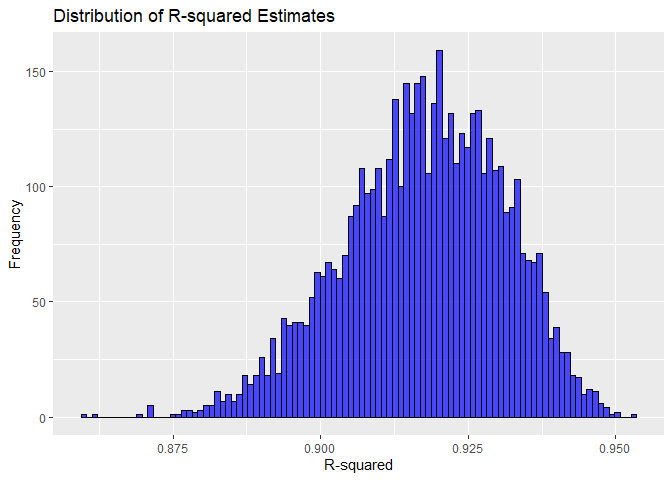
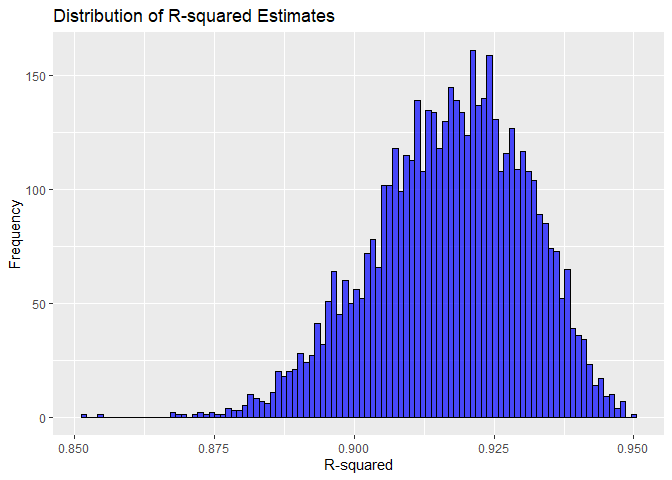
problem 2 - CI fixed

diff --git a/p8105_hw6_iho2104.md b/p8105_hw6_iho2104.md
@@ -62,6 +62,8 @@ weather_df =
 Bootstrap and r_sq and log_product
 
 ``` r
+set.seed(2023)
+
 boot_straps = weather_df |> 
   modelr::bootstrap(n = 5000) |> 
   mutate(
@@ -108,27 +110,32 @@ ggplot(boot_straps, aes(x = log_product)) +
        y = "Frequency")
 ```
 
-    ## Warning: Removed 3409 rows containing non-finite values (`stat_bin()`).
+    ## Warning: Removed 3393 rows containing non-finite values (`stat_bin()`).
 
 ![](p8105_hw6_iho2104_files/figure-gfm/unnamed-chunk-5-2.png)<!-- -->
 
 CI Intervals
 
 ``` r
-r_sq_CI = 
-boot_straps |> 
-  group_by(.id) |> 
+boot_straps |>
+  select(r.squared, log_product) |> 
+  pivot_longer(
+    r.squared:log_product, 
+    names_to = "variable", 
+    values_to = "estimate"
+  ) |> 
+  group_by(variable) |> 
   summarize(
-    ci_lower = quantile(r.squared, 0.025), 
-    ci_upper = quantile(r.squared, 0.975))
-
-log_product_CI = 
-boot_straps |> 
-  group_by(.id) |> 
-  summarize(
-    ci_lower = quantile(log_product, 0.025, na.rm = TRUE), 
-    ci_upper = quantile(log_product, 0.975, na.rm = TRUE))
+    lower_ci = quantile(estimate, 0.025, na.rm = TRUE), 
+    upper_ci = quantile(estimate, 0.975, na.rm = TRUE), 
+) |> 
+  knitr::kable()
 ```
+
+| variable    |   lower_ci |   upper_ci |
+|:------------|-----------:|-----------:|
+| log_product | -8.8645788 | -4.5383914 |
+| r.squared   |  0.8885981 |  0.9403798 |
 
 # Problem 3
 
